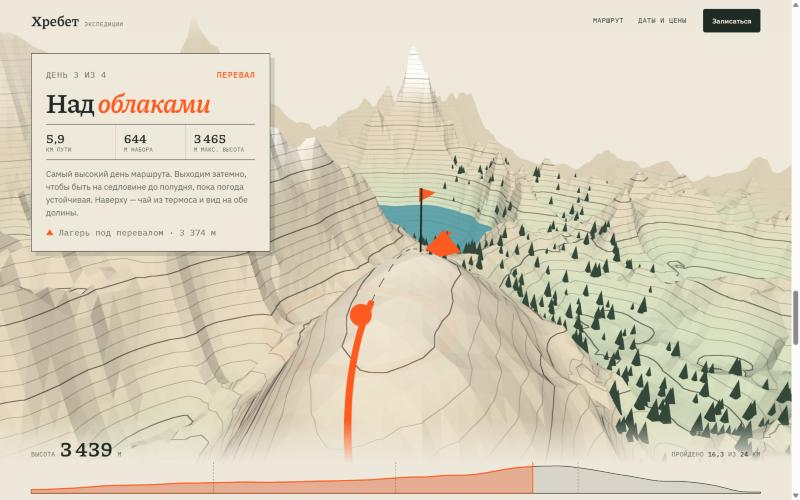
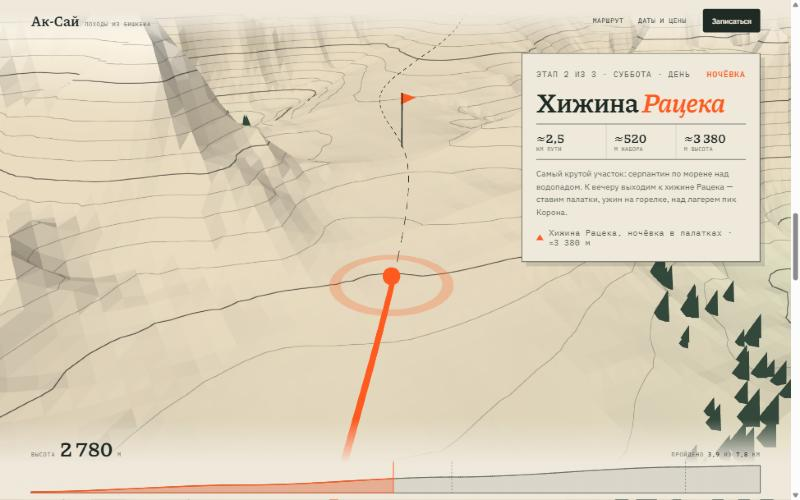
Rename the trek work to Ak-Sai and refresh its preview

diff --git a/main.js b/main.js
@@ -18,7 +18,7 @@ const WORKS = [
   { id: 'shop', name: 'Обжиг', genre: 'Магазин', color: '#c8922f', tech: 'Товар на гончарном круге: одна ваза перелепливается в другую.', try: 'Смените глазурь и положите вазу в корзину.' },
   { id: 'dom', name: 'Южный 17', genre: 'Недвижимость', color: '#ff6a3d', tech: 'Макет дома с выбором квартиры и движением солнца по часам.', try: 'Передвиньте время на ночь и откройте любой этаж.' },
   { id: 'fest', name: 'Частота', genre: 'Событие', color: '#c6ff3d', tech: '64 000 частиц перетекают из фигуры в фигуру и пульсируют под музыку.', try: 'Включите звук слева внизу.' },
-  { id: 'trek', name: 'Хребет', genre: 'Туризм', color: '#ff5a1f', tech: 'Рельеф-карта с горизонталями и полётом камеры по маршруту.', try: 'Листайте — внизу заполняется высотный профиль.' },
+  { id: 'trek', name: 'Ак-Сай', genre: 'Туризм', color: '#ff5a1f', tech: 'Поход из Бишкека к леднику Ак-Сай на рельеф-карте: камера идёт по тропе Ала-Арчи.', try: 'Листайте — внизу заполняется высотный профиль до хижины Рацека.' },
   { id: 'drop', name: 'Капля', genre: 'Косметика', color: '#d9a3f0', tech: '«Жидкость», целиком нарисованная шейдером, без единой модели.', try: 'Пройдите подбор сыворотки за три вопроса.' },
   { id: 'watch', name: 'Механика', genre: 'Часы', color: '#c9a45c', tech: 'Модель часов из деталей: стрелки идут по вашему времени.', try: 'Соберите свою версию в конфигураторе.' },
   { id: 'coffee', name: 'Зерно', genre: 'Подписка', color: '#e2452b', tech: '1500 зёрен перестраиваются по скроллу: вихрь, барабан, струя.', try: 'Покрутите ползунок обжарки — зёрна потемнеют.' },

diff --git a/index.html b/index.html
@@ -4,7 +4,7 @@
 <meta charset="utf-8">
 <meta name="viewport" content="width=device-width, initial-scale=1">
 <title>Калыгулов Нуртилек — 3D-сайты</title>
-<meta name="description" content="Десять сайтов-концептов с 3D и анимацией: автошкола, магазин, жилой дом, фестиваль, треки, косметика, часы, кофе, галерея, фестиваль шрифтов. Каждый открывается и работает прямо на странице.">
+<meta name="description" content="Десять сайтов-концептов с 3D и анимацией: автошкола, магазин, жилой дом, фестиваль, поход в Ала-Арче, косметика, часы, кофе, галерея, фестиваль шрифтов. Каждый открывается и работает прямо на странице.">
 <meta name="theme-color" content="#0d0d0f">
 <meta property="og:title" content="Калыгулов Нуртилек — 3D-сайты">
 <meta property="og:description" content="Десять работающих сайтов с 3D и анимацией. Откройте любой прямо на странице.">
